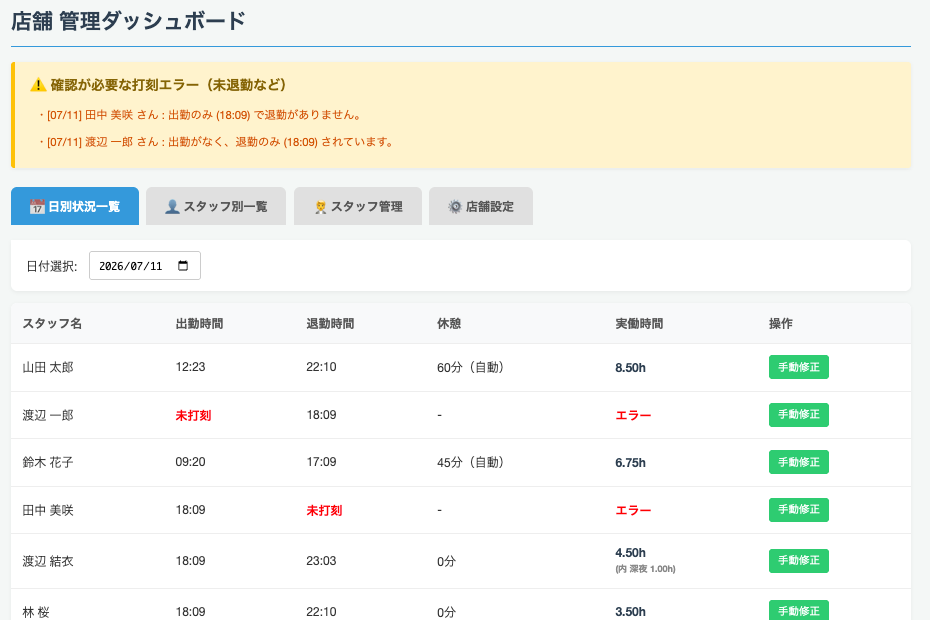
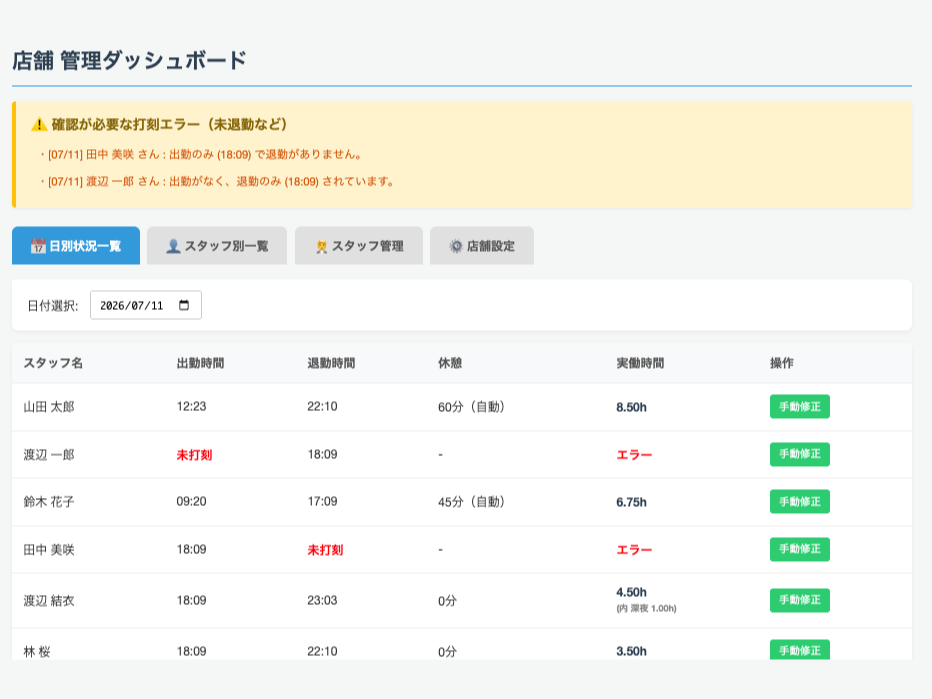
Pad attendance screenshots to four by three

diff --git a/app/globals.css b/app/globals.css
@@ -82,7 +82,7 @@ a { color:inherit; text-decoration:none; }
 .service-featured { display:grid; grid-template-columns:minmax(0,1fr) minmax(0,1fr); align-items:center; gap:clamp(40px,5vw,80px); margin-top:40px; padding:clamp(28px,4vw,58px); border:1px solid rgba(92,145,255,.34); background:linear-gradient(110deg,rgba(4,5,7,.9),rgba(12,18,28,.64)); box-shadow:inset 0 0 70px rgba(8,104,255,.035); }
 .service-featured--examples { grid-template-columns:minmax(0,1.14fr) minmax(0,.86fr); gap:clamp(28px,3.4vw,54px); padding:clamp(22px,2.8vw,38px); }
 .service-screen-gallery { display:grid; grid-template-columns:repeat(2,minmax(0,1fr)); gap:clamp(10px,1.25vw,18px); align-items:center; }
-.service-screen-gallery figure { position:relative; z-index:0; aspect-ratio:3 / 2; margin:0; padding:2px; overflow:hidden; border:1px solid rgba(174,179,185,.72); border-radius:7px; background:#f5f7f7; box-shadow:0 12px 28px rgba(0,0,0,.4); cursor:zoom-in; transition:transform .28s ease,box-shadow .28s ease; }
+.service-screen-gallery figure { position:relative; z-index:0; aspect-ratio:4 / 3; margin:0; padding:2px; overflow:hidden; border:1px solid rgba(174,179,185,.72); border-radius:7px; background:#f5f7f7; box-shadow:0 12px 28px rgba(0,0,0,.4); cursor:zoom-in; transition:transform .28s ease,box-shadow .28s ease; }
 .service-screen-gallery figure:hover,.service-screen-gallery figure:focus { z-index:3; box-shadow:0 26px 54px rgba(0,0,0,.66); outline:0; transform:scale(1.72); }
 .service-screen-gallery figure:first-child { transform-origin:left center; }
 .service-screen-gallery figure:last-child { transform-origin:right center; }
